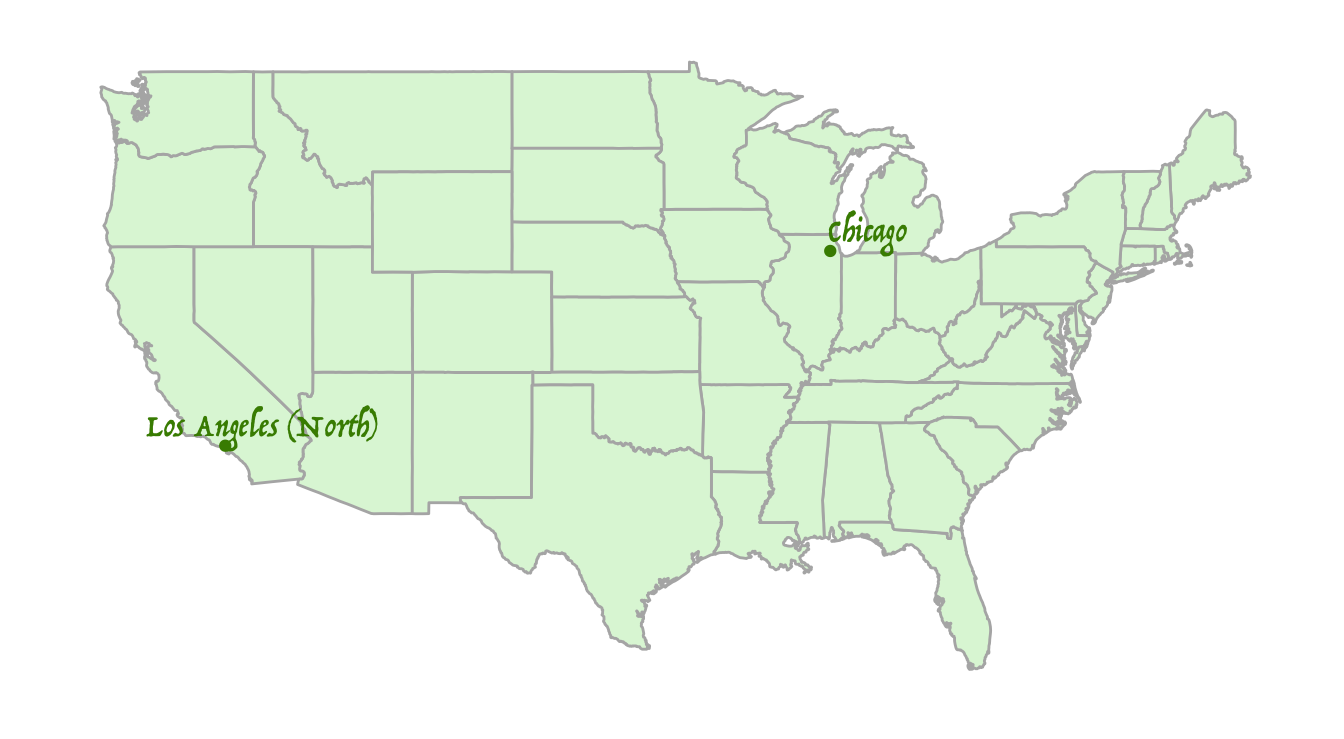
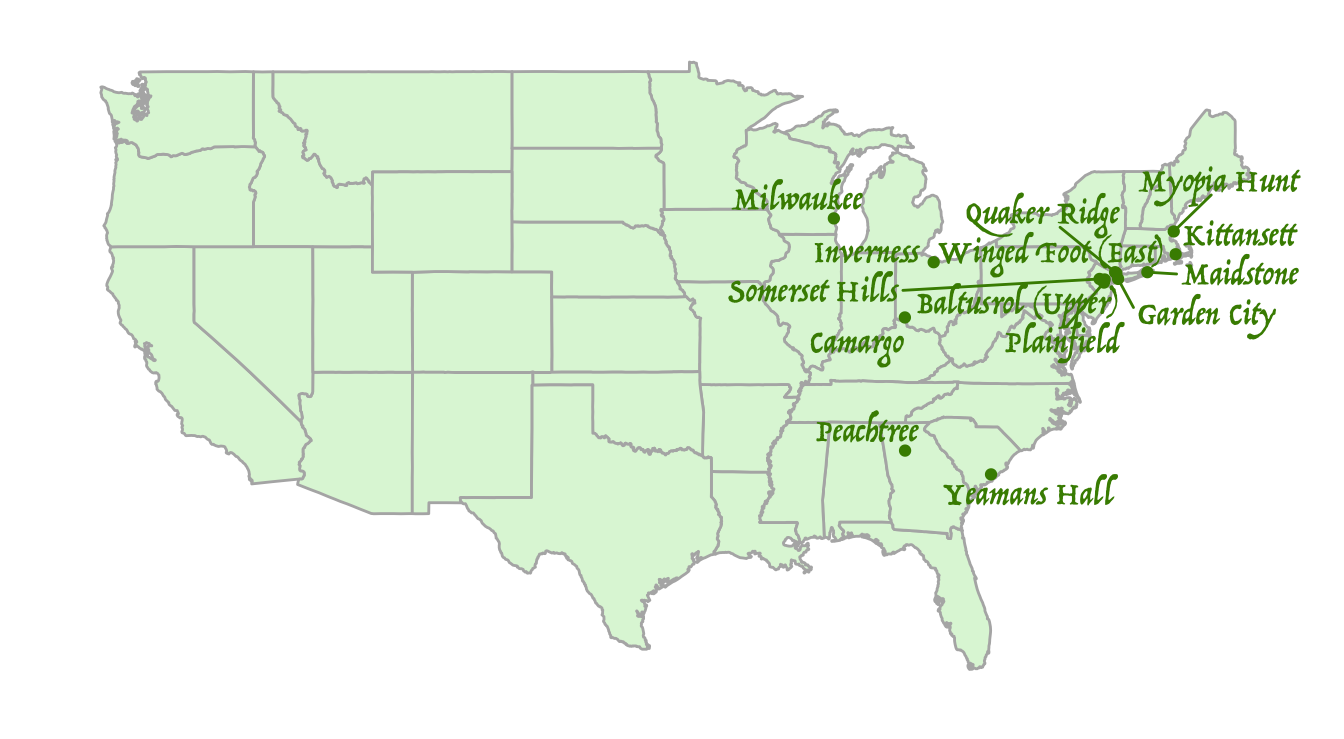
progress

diff --git a/guided_tour.html b/guided_tour.html
@@ -393,6 +393,14 @@ $(document).ready(function () {
 <td align="center">10</td>
 <td align="center">8.5</td>
 </tr>
+<tr class="even">
+<td align="center"><a href="https://top100golf.github.io/Winged-Foot--West-.html">Winged Foot (West)</a></td>
+<td align="center">Mamaroneck, NY</td>
+<td align="center">1923</td>
+<td align="center">11</td>
+<td align="center">15</td>
+<td align="center">13</td>
+</tr>
 </tbody>
 </table>
 <p>In both publications, the top 10 is rarefied air that has been occupied almost exclusively by a small number of classic courses built during golf’s <a href="https://www.amazon.com/Golden-Age-Golf-Design/dp/1886947317">“golden age”</a> of design:</p>
@@ -405,10 +413,11 @@ $(document).ready(function () {
 <li>Oakmont (top 8 in every ranking since 1993)</li>
 <li>Merion (top 8 in every ranking since 1995)</li>
 </ul>
-<p>Golf Magazine has been especially ossified at the top - Pine Valley and Cypress Point have been ranked #1 and #2, respectively, in every Golf Magazine list since its first publication in 1991.</p>
-<p>With the exception of Pebble Beach, membership rolls at these courses are populated by captains of industry and it is nearly impossible for the average golfer to get on for a round. Two of them are not tournament-ready - Pine Valley has never hosted professional events while Cypress Point pulled out of the Bing Crosby Clambake more than 30 years ago and plays to 6524 yards from the tips - but the rest are current and former hosts of some of the most prominent professional and amateur competitions.</p>
-<p>Despite universally acclaimed designs and decades of tournament experience, among the other five courses only Oakmont has managed to keep up with modern ball and club technology. Merion’s 2013 US Open setup received mixed reviews and the club may have to wait until 2030 for a return visit; Shinnecock Hills has been the site of two consecutive USGA PR catastrophes; and last year’s US Open at Pebble Beach saw players hitting hitting the 6th hole in two with a 3 wood and a mid-iron. Perhaps it’s just a coincidence, but Pebble fell to its all-time low of 10th in the Golf Magazine ratings.</p>
-<p>Even Augusta National, which has unlimited resources and only a few months of on-course play each year, is struggling to maintain shot values. In a borderline heretical move, Golf Magazine put Augusta National on notice with a column <a href="https://www.golf.com/news/columns/2019/11/21/why-augusta-national-dropped-four-places-ranking/">disparaging the club’s recent design changes</a> and ended its seemingly permanent streak in the top 5. What does it mean for the game of golf if technological changes make the world’s best courses obsolete for PGA Tour pros?</p>
+<!-- Golf Magazine has been especially ossified at the top - Pine Valley and Cypress Point have been ranked #1 and #2, respectively, in every Golf Magazine list since its first publication in 1991. -->
+<p>With the exception of Pebble Beach, membership rolls at these courses are populated by captains of industry and the average golfer has no hope of ever getting on for a round. While Pine Valley and Cypress Point are not known as modern tournament courses, Pine Valley is open to the viewing public every year for the mid-amateur Crump Cup and Cypress Point has begun hosting occasional college tournaments. The other five courses are active hosts of some of the country’s most prominent professional and amateur competitions.</p>
+<p>Despite universally acclaimed designs and decades of tournament experience, all of these clubs have struggled to keep up with modern ball and club technology. Merion’s 2013 US Open setup received mixed reviews and the club may have to wait until 2030 for a return visit; Shinnecock Hills has been the site of two consecutive USGA PR catastrophes; the 2016 US Open at Oakmont was the site of Dustin Johnson’s infamous windblown ball wobble and penalty; and the 2019 US Open at Pebble Beach saw players hitting the par-5 6th hole in two with a 3 wood and a mid-iron.</p>
+<p>Even Augusta National, which has unlimited resources and only a few months of on-course play each year, is struggling to maintain shot values. In a borderline heretical move, Golf Magazine put Augusta National on notice with a column <a href="https://www.golf.com/news/columns/2019/11/21/why-augusta-national-dropped-four-places-ranking/">disparaging the club’s recent design changes</a> and this year ended the club’s seemingly permanent streak in the US top 5. What does it mean for the game of golf if technological changes make the world’s best courses obsolete for PGA Tour pros?</p>
+<p>Not long ago, the West course at Winged Foot would have easily qualified for the “blue blood” set, but the legendary venue has fallen out of the top 10 in both magazines. Comments by Golf Digest raters, some of whom call it “less interesting” than the club’s East Course and situated on a property that is “downright ordinary with little topographical character,” are surprisingly negative for such a highly ranked course. Will a recently completed restoration and publicity from hosting the 2020 US Open vault it back into the top 10?</p>
 <hr />
 </div>
 <div id="the-new-and-newly-revitalized-blue-bloods" class="section level3">
@@ -450,11 +459,36 @@ $(document).ready(function () {
 <td align="center">9</td>
 <td align="center">9.5</td>
 </tr>
+<tr class="even">
+<td align="center"><a href="https://top100golf.github.io/Friar-s-Head.html">Friar’s Head</a></td>
+<td align="center">Baiting Hollow, NY</td>
+<td align="center">2002</td>
+<td align="center">15</td>
+<td align="center">13</td>
+<td align="center">14</td>
+</tr>
+<tr class="odd">
+<td align="center"><a href="https://top100golf.github.io/Chicago.html">Chicago</a></td>
+<td align="center">Wheaton, IL</td>
+<td align="center">1894</td>
+<td align="center">14</td>
+<td align="center">14</td>
+<td align="center">14</td>
+</tr>
+<tr class="even">
+<td align="center"><a href="https://top100golf.github.io/Los-Angeles--North-.html">Los Angeles (North)</a></td>
+<td align="center">Los Angeles, CA</td>
+<td align="center">1921</td>
+<td align="center">19</td>
+<td align="center">12</td>
+<td align="center">15.5</td>
+</tr>
 </tbody>
 </table>
 <p>Like high society in real life, entry into the top echelons from the outside is rare but not impossible. Three courses have made a move into the top 10, two by staging comebacks and the other by single-handedly changing the course of golf course architecture in the new millennium. C.B. Macdonald’s National Golf Links of America was once ranked #56 by Golf Digest and #26 by Golf Magazine but has vaulted up to #8 and #4, respectively, while Fishers Island, currently #10 and #9, was out of the top 100 altogether in Golf Digest as recently as 1999. Joining</p>
-<p>Now firmly in the top 10 in both lists, Sand Hills’ standing is perhaps the most remarkable on the entire list. The influential 1995 Bill Coore and Ben Crenshaw design is more than 60 years newer than the second-youngest top 10 course (Augusta National, 1933) and it is the only top 10 course located between Oakmont on the east and Monterey on the west.</p>
-<p><br></p>
+<p>Now firmly in the top 10 in both lists, Sand Hills’ standing is perhaps the most remarkable on the entire list. The influential 1995 Bill Coore and Ben Crenshaw design is more than 60 years newer than the second-youngest top 10 course (Augusta National, 1933) and it is the only top 10 course located between Oakmont on the east and the Monterey Peninsula on the west.</p>
+<p>While a number of classic courses that have been muscled out of the top third of the charts in recent years, LACC and Chicago have been rewarded for renovation work by trendy architects and successfully hosting USGA events. This list of comeback kids is not a long one even if you add National and Fishers Island, the only other pre-war venues that have managed to make moves into the upper tier in both rankings.</p>
+<hr />
 </div>
 <div id="if-this-is-the-b-list-its-quite-the-b-list" class="section level3">
 <h3>If this is the B-list, it’s quite the B-list</h3>
@@ -471,22 +505,6 @@ $(document).ready(function () {
 </tr>
 </thead>
 <tbody>
-<tr class="odd">
-<td align="center"><a href="https://top100golf.github.io/Winged-Foot--West-.html">Winged Foot (West)</a></td>
-<td align="center">Mamaroneck, NY</td>
-<td align="center">1923</td>
-<td align="center">11</td>
-<td align="center">15</td>
-<td align="center">13</td>
-</tr>
-<tr class="even">
-<td align="center"><a href="https://top100golf.github.io/Friar-s-Head.html">Friar’s Head</a></td>
-<td align="center">Baiting Hollow, NY</td>
-<td align="center">2002</td>
-<td align="center">15</td>
-<td align="center">13</td>
-<td align="center">14</td>
-</tr>
 <tr class="odd">
 <td align="center"><a href="https://top100golf.github.io/Crystal-Downs.html">Crystal Downs</a></td>
 <td align="center">Frankfort, MI</td>
@@ -543,12 +561,26 @@ $(document).ready(function () {
 <td align="center">21</td>
 <td align="center">28</td>
 </tr>
+<tr class="even">
+<td align="center"><a href="https://top100golf.github.io/Oak-Hill.html">Oak Hill</a></td>
+<td align="center">Rochester, NY</td>
+<td align="center">1925</td>
+<td align="center">22</td>
+<td align="center">40</td>
+<td align="center">31</td>
+</tr>
+<tr class="odd">
+<td align="center"><a href="https://top100golf.github.io/Southern-Hills.html">Southern Hills</a></td>
+<td align="center">Tulsa, OK</td>
+<td align="center">1936</td>
+<td align="center">34</td>
+<td align="center">28</td>
+<td align="center">31</td>
+</tr>
 </tbody>
 </table>
-<p>The courses in this group have been mainstays in in the top 20 - though generally not the top 10 - in at least one of the two rankings. Again, we see a split between major championship venues and clubs that have shunned the inconvenience and attention that come with hosting tournaments. We can also divide this group between the first three, which are consensus top 20 courses, and the rest, which are outside the top 20 in one of the two publications.</p>
-<p>Not long ago, the West course at Winged Foot would have qualified for the “blue blood” set, but the legendary US Open venue has fallen out of the top 10 in both magazines. Comments by Golf Digest raters, some of whom call it “less interesting” than the club’s East Course and situated on a property that is “downright ordinary with little topographical character,” are surprisingly negative for such a highly ranked course. Will a recently completed greens restoration and publicity from hosting the 2020 US Open vault it back into the top 10?</p>
-<p>Friar’s Head, another Coore and Crenshaw collaboration, deserves kudos as the only post-World War II course aside from Sand Hills to maintain a position in the top 15 of either ranking.</p>
-<p><br></p>
+<p>Most of the courses in this group have been mainstays in in the top 30 - though generally not the top 10 - in at least one of the two rankings. Like the blue blood category, this group is split between major championship venues and clubs that have shunned the inconvenience and attention that come with hosting tournaments.</p>
+<hr />
 </div>
 <div id="trouble-in-paradise-part-1-upper-crust-division" class="section level3">
 <h3>Trouble in paradise, part 1: upper crust division</h3>
@@ -565,22 +597,6 @@ $(document).ready(function () {
 </tr>
 </thead>
 <tbody>
-<tr class="odd">
-<td align="center"><a href="https://top100golf.github.io/Oak-Hill.html">Oak Hill</a></td>
-<td align="center">Rochester, NY</td>
-<td align="center">1925</td>
-<td align="center">22</td>
-<td align="center">40</td>
-<td align="center">31</td>
-</tr>
-<tr class="even">
-<td align="center"><a href="https://top100golf.github.io/Southern-Hills.html">Southern Hills</a></td>
-<td align="center">Tulsa, OK</td>
-<td align="center">1936</td>
-<td align="center">34</td>
-<td align="center">28</td>
-<td align="center">31</td>
-</tr>
 <tr class="odd">
 <td align="center"><a href="https://top100golf.github.io/Muirfield-Village.html">Muirfield Village</a></td>
 <td align="center">Dublin, OH</td>
@@ -638,45 +654,9 @@ $(document).ready(function () {
 <p>The bottom can fall out quickly. In 2001, Wannamoisett was ranked #35 by Golf Digest and #64 by Golf Magazine. In the span of only six years, it fell out of both rankings completely and hasn’t been seen in the top 100 since.</p>
 <hr />
 </div>
-<div id="returning-to-glory" class="section level3">
-<h3>Returning to glory</h3>
+<div id="a-few-merely-fantastic-courses-that-you-wont-be-able-to-get-on-old-school" class="section level3">
+<h3>A few merely fantastic courses that you won’t be able to get on (old school)</h3>
 <p><img src="guided_tour_files/figure-html/unnamed-chunk-6-1.png" width="672" /></p>
-<table>
-<thead>
-<tr class="header">
-<th align="center">Course</th>
-<th align="center">Location</th>
-<th align="center">Year Designed</th>
-<th align="center">Golf Digest</th>
-<th align="center">Golf Magazine</th>
-<th align="center">Average</th>
-</tr>
-</thead>
-<tbody>
-<tr class="odd">
-<td align="center"><a href="https://top100golf.github.io/Chicago.html">Chicago</a></td>
-<td align="center">Wheaton, IL</td>
-<td align="center">1894</td>
-<td align="center">14</td>
-<td align="center">14</td>
-<td align="center">14</td>
-</tr>
-<tr class="even">
-<td align="center"><a href="https://top100golf.github.io/Los-Angeles--North-.html">Los Angeles (North)</a></td>
-<td align="center">Los Angeles, CA</td>
-<td align="center">1921</td>
-<td align="center">19</td>
-<td align="center">12</td>
-<td align="center">15.5</td>
-</tr>
-</tbody>
-</table>
-<p>While a number of classic courses that have been muscled out of the top third of the charts, two lucky clubs have been rewarded for renovation work by trendy architects and publicity bumps after hosting major amateur and professional events. This list of comeback kids is not a long one even if you add National and Fishers Island, the only other pre-war venues that have managed to make moves into the upper tier in both rankings.</p>
-<hr />
-</div>
-<div id="a-few-merely-fantastic-courses-that-you-also-wont-be-able-to-get-on-old-school" class="section level3">
-<h3>A few merely fantastic courses that you also won’t be able to get on (old school)</h3>
-<p><img src="guided_tour_files/figure-html/unnamed-chunk-7-1.png" width="672" /></p>
 <table>
 <thead>
 <tr class="header">
@@ -801,22 +781,14 @@ $(document).ready(function () {
 <td align="center">99</td>
 <td align="center">80</td>
 </tr>
-<tr class="odd">
-<td align="center"><a href="https://top100golf.github.io/Aronimink.html">Aronimink</a></td>
-<td align="center">Newtown Square, PA</td>
-<td align="center">1928</td>
-<td align="center">85</td>
-<td align="center">89</td>
-<td align="center">87</td>
-</tr>
 </tbody>
 </table>
 <p>These highly rated private clubs, all east of the Mississippi River, tend to have relatively stable ratings in the 40-80 range. All of them were designed in the 1920s and earlier except Peachtree, which earns honorary “golden age” status from its Bobby Jones connection.</p>
 <hr />
 </div>
-<div id="a-few-merely-fantastic-courses-that-you-also-wont-be-able-to-get-on-new-school" class="section level3">
-<h3>A few merely fantastic courses that you also won’t be able to get on (new school)</h3>
-<p><img src="guided_tour_files/figure-html/unnamed-chunk-8-1.png" width="672" /></p>
+<div id="a-few-merely-fantastic-courses-that-you-wont-be-able-to-get-on-new-school" class="section level3">
+<h3>A few merely fantastic courses that you won’t be able to get on (new school)</h3>
+<p><img src="guided_tour_files/figure-html/unnamed-chunk-7-1.png" width="672" /></p>
 <table>
 <thead>
 <tr class="header">
@@ -956,7 +928,7 @@ $(document).ready(function () {
 </div>
 <div id="the-cheapest-dates-on-the-list" class="section level3">
 <h3>The cheapest dates on the list</h3>
-<p><img src="guided_tour_files/figure-html/unnamed-chunk-9-1.png" width="672" /></p>
+<p><img src="guided_tour_files/figure-html/unnamed-chunk-8-1.png" width="672" /></p>
 <table>
 <thead>
 <tr class="header">
@@ -1132,7 +1104,7 @@ $(document).ready(function () {
 </div>
 <div id="tom-fazios-checks-to-the-golf-magazine-raters-apparently-didnt-clear" class="section level3">
 <h3>Tom Fazio’s checks to the Golf Magazine raters apparently didn’t clear</h3>
-<p><img src="guided_tour_files/figure-html/unnamed-chunk-10-1.png" width="672" /></p>
+<p><img src="guided_tour_files/figure-html/unnamed-chunk-9-1.png" width="672" /></p>
 <table>
 <thead>
 <tr class="header">
@@ -1257,7 +1229,7 @@ $(document).ready(function () {
 </div>
 <div id="a-few-more-lush-luxurious-tracks-that-golf-digest-loves-and-golf-magazine-doesnt-non-fazio-edition" class="section level3">
 <h3>A few more lush, luxurious tracks that Golf Digest loves and Golf Magazine doesn’t (non-Fazio edition)</h3>
-<p><img src="guided_tour_files/figure-html/unnamed-chunk-11-1.png" width="672" /></p>
+<p><img src="guided_tour_files/figure-html/unnamed-chunk-10-1.png" width="672" /></p>
 <table>
 <thead>
 <tr class="header">
@@ -1333,7 +1305,7 @@ $(document).ready(function () {
 </div>
 <div id="some-ancient-clubs-that-golf-magazine-loves-and-golf-digest-doesnt" class="section level3">
 <h3>Some ancient clubs that Golf Magazine loves and Golf Digest doesn’t</h3>
-<p><img src="guided_tour_files/figure-html/unnamed-chunk-12-1.png" width="672" /></p>
+<p><img src="guided_tour_files/figure-html/unnamed-chunk-11-1.png" width="672" /></p>
 <table>
 <thead>
 <tr class="header">
@@ -1481,7 +1453,7 @@ $(document).ready(function () {
 </div>
 <div id="back-in-vogue-for-now-at-least" class="section level3">
 <h3>Back in vogue, for now at least</h3>
-<p><img src="guided_tour_files/figure-html/unnamed-chunk-13-1.png" width="672" /></p>
+<p><img src="guided_tour_files/figure-html/unnamed-chunk-12-1.png" width="672" /></p>
 <table>
 <thead>
 <tr class="header">
@@ -1533,7 +1505,7 @@ $(document).ready(function () {
 </div>
 <div id="trouble-in-paradise-part-2-catch-the-falling-knife" class="section level3">
 <h3>Trouble in paradise, part 2: catch the falling knife</h3>
-<p><img src="guided_tour_files/figure-html/unnamed-chunk-14-1.png" width="672" /></p>
+<p><img src="guided_tour_files/figure-html/unnamed-chunk-13-1.png" width="672" /></p>
 <table>
 <thead>
 <tr class="header">
@@ -1634,7 +1606,7 @@ $(document).ready(function () {
 </div>
 <div id="pouring-one-out-for-the-recently-and-dearly-departed" class="section level3">
 <h3>Pouring one out for the recently and dearly departed</h3>
-<p><img src="guided_tour_files/figure-html/unnamed-chunk-15-1.png" width="672" /></p>
+<p><img src="guided_tour_files/figure-html/unnamed-chunk-14-1.png" width="672" /></p>
 <table>
 <thead>
 <tr class="header">
@@ -1739,7 +1711,7 @@ $(document).ready(function () {
 </tr>
 </tbody>
 </table>
-<p>Some of these were a long time coming (Laurel Valley, Torrey Pines, Colonial), while others represented short blips in the top 100 (Mountain Lake, Philadelphia Cricket). But Yale is definitely the saddest of all. It turns out that closing your course and <a href="https://www.geoffshackelford.com/homepage/2020/7/2/as-feared-yale-golf-course-has-fallen-into-extreme-disrepair">letting it grow over into a giant weed pasture</a> is not good for your ratings.</p>
+<p>Some of these were a long time coming (Laurel Valley, Hazeltine, Colonial), while others represented short blips in the top 100 (Mountain Lake, Philadelphia Cricket). But Yale is definitely the saddest of all. It turns out that closing your course and <a href="https://www.geoffshackelford.com/homepage/2020/7/2/as-feared-yale-golf-course-has-fallen-into-extreme-disrepair">letting it grow over into a giant weed pasture</a> is not good for your ratings.</p>
 </div>
 
 
